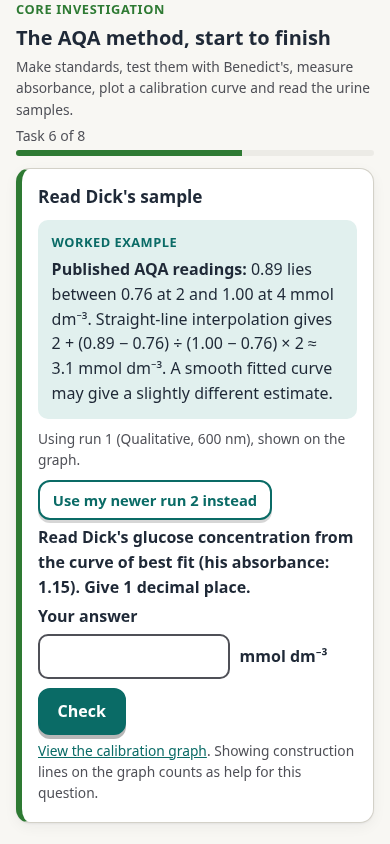
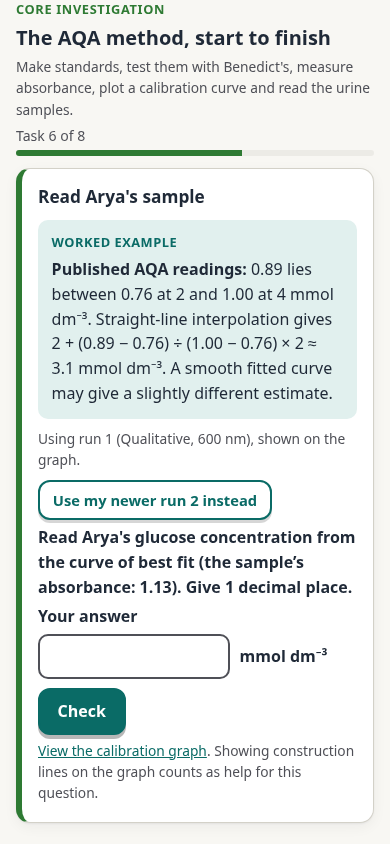
Rename RP11 sample labels

Changed region(s): [[0.0923, 0.6161, 0.9231, 0.7085], [0.2154, 0.2156, 0.5231, 0.2464]]

diff --git a/public/alevel/glucose-calibration/index.html b/public/alevel/glucose-calibration/index.html
@@ -349,7 +349,7 @@ select{font:inherit;color:var(--ink);background:var(--card);border:2px solid var
     <summary class="sumh">These results are simulated: the model's assumptions</summary>
     <ul>
       <li><b>Published and simulated data.</b> The values labelled "Published AQA readings" come from the <a href="https://filestore.aqa.org.uk/resources/biology/AQA-7401-7402-PHBK.PDF">AQA practical handbook</a>. Its text reports 4.7 mmol dm⁻³ for a 0.89 reading, but its own table brackets 0.89 between the 2 and 4 mmol dm⁻³ standards. The worked interpolation uses the table. All lab readings here are simulated; Apply graphs are illustrative data made up for the questions.</li>
-      <li>The method follows the AQA practical handbook: standards of 0 to 10 mmol dm⁻³ made from a 10 mmol dm⁻³ standard, 2 cm³ of each sample and 2 cm³ of Benedict's, 4 minutes in a 90 °C water bath, cooled before reading. Tom, Dick and Harry's samples contain 0, 5 and 8 mmol dm⁻³ glucose.</li>
+      <li>The method follows the AQA practical handbook: standards of 0 to 10 mmol dm⁻³ made from a 10 mmol dm⁻³ standard, 2 cm³ of each sample and 2 cm³ of Benedict's, 4 minutes in a 90 °C water bath, cooled before reading. Katniss, Arya and Carrie's samples contain 0, 5 and 8 mmol dm⁻³ glucose.</li>
       <li>Qualitative Benedict's is read shaken, at 600 nm, against the heated 0 tube. Its readings are fitted to the handbook's sample results (0.76 at 2, 1.39 at 10 mmol dm⁻³). Quantitative Benedict's is read at 680 nm against water; the blue Cu²⁺ left absorbs about 0.80 with no glucose.</li>
       <li>The Cu²⁺ in 2 cm³ of either reagent is assumed to be used up by about 11 mmol dm⁻³ of glucose (illustrative), so higher concentrations give almost the same reading.</li>
       <li>Percentage transmission is relative to the selected blank (100 × 10<sup>−A</sup>); negative absorbance relative to a darker blank can therefore give more than 100% relative transmission.</li>
@@ -414,10 +414,10 @@ let speed="normal";
  handbook's sample results (600 nm). The blue Cu²⁺ left absorbs 0.30 × (1 − fr) at 600 nm and 0.80 × (1 − fr) at 680 nm. */
 const CAP=11,PXC=15,TAU=1.25;
 const BEN={qual:"Qualitative Benedict's",quant:"Quantitative Benedict's"};
-const URN=[["Tom",0],["Dick",5],["Harry",8]];
+const URN=[["Katniss",0],["Arya",5],["Carrie",8]];
 /* sample sets: [label, glucose in the tube (mmol dm⁻³), dilution factor]. Y and Z are for the planning challenge. */
 const SAMP={thd:URN,x:[...URN,["X",15]],x2:[...URN,["X ÷ 2",7.5,2]],yz:[["Y",1.3],["Z",17]],yz4:[["Y",1.3],["Z ÷ 4",4.25,4]],yz2:[["Y",1.3],["Z ÷ 2",8.5,2]]};
-const SAMPN={thd:"Tom, Dick and Harry",x:"Tom, Dick, Harry and patient X",x2:"Tom, Dick, Harry and patient X diluted 1 in 2",yz:"Patients Y and Z",yz4:"Patient Y, and Z diluted 1 in 4",yz2:"Patient Y, and Z diluted 1 in 2"};
+const SAMPN={thd:"Katniss, Arya and Carrie",x:"Katniss, Arya, Carrie and patient X",x2:"Katniss, Arya, Carrie and patient X diluted 1 in 2",yz:"Patients Y and Z",yz4:"Patient Y, and Z diluted 1 in 4",yz2:"Patient Y, and Z diluted 1 in 2"};
 const CSTD={ben:"qual",filt:"600",blank:"zero",dil:"prop",cst:"0,0.5,1,1.5,2,2.5",pip:"ok",heat:"all",tech:"good",urine:"thd"};
 const QSTD={...CSTD,ben:"quant",filt:"680",blank:"water"};
 const NOM={prop:[0,2,4,6,8,10],serial:[0,.625,1.25,2.5,5,10]};
@@ -549,7 +549,8 @@ function tubeSVG(t,i){const x=TX(i)+(t.wig?Math.sin(performance.now()/30)*2.5:0)
   g+=`<path d="M${x-8} ${top} H${x+8} V${yb-r} A8 8 0 0 1 ${x-8} ${yb-r} Z" fill="${rgb(lc)}" opacity=".92"/>`;
   if(ppt>0)g+=`<path d="M${x-8} ${yb-r-Math.max(0,ppt-r)} H${x+8} V${yb-r} A8 8 0 0 1 ${x-8} ${yb-r} Z" fill="${cr.s.ben==="qual"?"#a5432a":"#f4f4f2"}" stroke="${cr.s.ben==="qual"?"none":"#9aa1a9"}" stroke-width=".8"/>`;}
  g+=`<path class="t-glass" d="M${x-9} ${y} V${yb-r} A9 9 0 0 0 ${x+9} ${yb-r} V${y}"/>`;
- g+=`<text class="f-sm t-lab" x="${x}" y="${y-6}" text-anchor="middle"${t.lab.length>4?' style="font-size:10px"':""}>${esc(t.lab)}</text>`;return g;}
+ const labelY=y-6-(t.k==="urn"&&(i-6)%2===0?11:0);
+ g+=`<text class="f-sm t-lab" x="${x}" y="${labelY}" text-anchor="middle"${t.lab.length>4?' style="font-size:10px"':""}>${esc(t.lab)}</text>`;return g;}
 function sySVG(){if(!SY.vis)return"";const x=SY.x,y=SY.y,h=SY.load/4*30;let g=`<rect class="t-barrel" x="${x-4}" y="${y-44}" width="8" height="34" rx="1.5"/>`;
  if(h>0)g+=`<rect x="${x-3}" y="${y-11-h}" width="6" height="${h}" fill="${rgb(SY.col)}"/>`;
  g+=`<line class="f-thin" x1="${x}" y1="${y-10}" x2="${x}" y2="${y}"/><line class="f-thin" x1="${x}" y1="${y-44}" x2="${x}" y2="${y-54+h*.3}"/><line class="f-thin" x1="${x-5}" y1="${y-54+h*.3}" x2="${x+5}" y2="${y-54+h*.3}"/>`;
@@ -560,7 +561,7 @@ function cDraw(){if(!cr)return;const s=cr.s;let g="";
  g+=`<rect class="t-bath" x="8" y="168" width="302" height="128" rx="6"/><rect class="t-bathw" x="10" y="178" width="298" height="116" rx="4"/>`;
  g+=`<text class="f-sm" x="16" y="290">Water bath, 90 °C${cr.status==="heating"&&cr.t>0?` · ${cr.t.toFixed(1)} min`:""}${s.heat==="none"&&cr.status==="heating"?" (not used)":""}</text>`;
  // headers
- g+=`<text class="f-sm" x="99" y="12" text-anchor="middle">Standards, mmol dm⁻³</text><text class="f-sm" x="${206+(cr.tubes.length-7)*15}" y="12" text-anchor="middle">"Urine" samples</text>`;
+ g+=`<text class="f-sm" x="99" y="12" text-anchor="middle">Standards, mmol dm⁻³</text><text class="f-sm" x="${206+(cr.tubes.length-7)*15}" y="2" text-anchor="middle">"Urine" samples</text>`;
  // racks
  g+=`<rect class="t-rack" x="10" y="${104+cr.yS}" width="178" height="7" rx="2"/><rect class="t-rack" x="192" y="${104+cr.yU}" width="${cr.tubes.length>9?118:90}" height="7" rx="2"/>`;
  cr.tubes.forEach((t,i)=>g+=tubeSVG(t,i));
@@ -801,7 +802,7 @@ const PAIRS={
   b:{s:NQ({filt:"600"}),seed:8,line:"curve",txt:"Orange filter, 600 nm: absorbance falls only from about 0.30 to 0.04."}},
  trans:{same:"One set of qualitative Benedict's readings, plotted two ways.",a:{s:N0({}),seed:2,line:"curve",txt:"Absorbance against concentration."},
   b:{s:N0({}),seed:2,line:"curve",Y:"T",txt:"% transmission against concentration: the same data. More light absorbed means less transmitted."}},
- line:{same:"One set of qualitative Benedict's readings. Dick's sample was made at 5.0 mmol dm⁻³.",a:{s:N0({}),seed:4,line:"curve",guides:true,txt:"Curve of best fit, with construction lines for each sample."},
+ line:{same:"One set of qualitative Benedict's readings. Arya's sample was made at 5.0 mmol dm⁻³.",a:{s:N0({}),seed:4,line:"curve",guides:true,txt:"Curve of best fit, with construction lines for each sample."},
   b:{s:N0({}),seed:4,line:"straight",guides:true,txt:"Straight line through the same points, with construction lines. This line fits poorly; the value is for comparison only."}},
  shake:{same:"Qualitative Benedict's, the same tubes.",a:{s:N0({}),seed:6,line:"curve",txt:"Each tube shaken just before sampling: the precipitate is evenly suspended."},
   b:{s:N0({tech:"bad"}),seed:6,line:"curve",txt:"Not shaken: the precipitate settled, more in the tubes sampled later. Readings are lower and scattered."}}};
@@ -841,7 +842,11 @@ function showTaskPanel(tp){curTaskPanel=tp||null;curPair=tp&&tp.pair||null;if(tp
  Runs are saved with progress, so evidence survives reloads and later experiments. */
 let ST={area:"core",sec:null,res:{},adv:{},pick:{},vr:{},wr:{},lock:{},hint:{},txt:{},self:{},seen:{},bind:{},peek:{},rt:{},tried:{},lost:{}},fresh=null;
 const SKEY="kst-rp11-v3";
-try{const d=JSON.parse(localStorage.getItem(SKEY)||"null");if(d&&d.st){ST={...ST,...d.st};if(Array.isArray(d.runs))cRuns=d.runs;cId=Math.max(d.cid||0,...cRuns.map(r=>r.id),0);if(d.ui){CS={...CSTD,...d.ui.settings};speed=d.ui.speed||"normal";gLine=d.ui.line||"none";gY=d.ui.axis||"A";guides=!!d.ui.guides;showRun=cRuns.find(r=>r.id===d.ui.run)||null;}}}catch(e){}
+// Preserve stored experiment evidence when the illustrative sample labels change.
+const OLD_SAMPLE_NAMES={Tom:"Katniss",Dick:"Arya",Harry:"Carrie"};
+function renameSavedRun(r){if(r&&Array.isArray(r.unk))r.unk.forEach(u=>{if(Object.hasOwn(OLD_SAMPLE_NAMES,u.n))u.n=OLD_SAMPLE_NAMES[u.n];});return r;}
+function renameSavedFeedback(v){return typeof v==="string"?v.replace(/\b(?:Tom|Dick|Harry)\b/g,n=>OLD_SAMPLE_NAMES[n]):Array.isArray(v)?v.map(renameSavedFeedback):v;}
+try{const d=JSON.parse(localStorage.getItem(SKEY)||"null");if(d&&d.st){ST={...ST,...d.st};if(Array.isArray(d.runs))cRuns=d.runs.map(renameSavedRun);Object.values(ST.seen).forEach(renameSavedRun);Object.values(ST.refs||{}).forEach(renameSavedRun);for(const k of Object.keys(ST.wr))ST.wr[k]=renameSavedFeedback(ST.wr[k]);cId=Math.max(d.cid||0,...cRuns.map(r=>r.id),0);if(d.ui){CS={...CSTD,...d.ui.settings};speed=d.ui.speed||"normal";gLine=d.ui.line||"none";gY=d.ui.axis||"A";guides=!!d.ui.guides;showRun=cRuns.find(r=>r.id===d.ui.run)||null;}}}catch(e){}
 function save(){try{localStorage.setItem(SKEY,JSON.stringify({st:ST,runs:cRuns,cid:cId,ui:{settings:CS,speed,line:gLine,axis:gY,guides,run:showRun?.id??null}}));}catch(e){$("#save-warning").hidden=false;}}
 function setOK(m,n){return cmatch(cr.s,n);}
 function latestRun(m,n,f){for(let i=cRuns.length-1;i>=0;i--){const r=cRuns[i];if(cmatch(r.s,n)&&(!f||f(r)))return r;}return null;}
@@ -1068,11 +1073,11 @@ const SECTIONS=[
   q:"Under the graph, choose the line for your calibration graph, then press Check.",get:()=>gLine,ok:"curve",
   fb:{none:"Choose a line under the graph first.",straight:"A straight line misses the pattern: your points curve, so the line runs above some points and below others.",dots:"Joining the points copies every small error in the readings. A line of best fit shows the trend."},
   why:"Your points curve, so a smooth curve of best fit shows the trend without following every small error."},
- {id:"c6",type:"num",m:"lab",need:N({}),filt:full,read:true,line:"curve",title:"Read Dick's sample",skill:"Read a concentration from a calibration curve",missing:"You need a run with the AQA set-up.",unit:"mmol dm⁻³",tol:.3,
+ {id:"c6",type:"num",m:"lab",need:N({}),filt:full,read:true,line:"curve",title:"Read Arya's sample",skill:"Read a concentration from a calibration curve",missing:"You need a run with the AQA set-up.",unit:"mmol dm⁻³",tol:.3,
   worked:"<p><b>Published AQA readings:</b> 0.89 lies between 0.76 at 2 and 1.00 at 4 mmol dm⁻³. Straight-line interpolation gives 2 + (0.89 − 0.76) ÷ (1.00 − 0.76) × 2 ≈ 3.1 mmol dm⁻³. A smooth fitted curve may give a slightly different estimate.</p>",
-  q:r=>`Read Dick's glucose concentration from the curve of best fit (his absorbance: ${f2(uA(r,"Dick"))}). Give 1 decimal place.`,
-  ans:r=>rdC(r,"Dick"),errs:r=>[[rdC(r,"Dick","straight","A",true),"That is from a straight line. Use the curve of best fit."],[rdC(r,"Harry"),"That is Harry's sample."],[rdC(r,"Dick","dots"),"That is from joined points. Use the curve."]],
-  help:"Find Dick's absorbance on the y-axis, go across to the curve, then down.",why:r=>`Dick's sample reads ${f1(rdC(r,"Dick"))} mmol dm⁻³ (it was made at 5.0).`},
+  q:r=>`Read Arya's glucose concentration from the curve of best fit (the sample’s absorbance: ${f2(uA(r,"Arya"))}). Give 1 decimal place.`,
+  ans:r=>rdC(r,"Arya"),errs:r=>[[rdC(r,"Arya","straight","A",true),"That is from a straight line. Use the curve of best fit."],[rdC(r,"Carrie"),"That is Carrie's sample."],[rdC(r,"Arya","dots"),"That is from joined points. Use the curve."]],
+  help:"Find Arya's absorbance on the y-axis, go across to the curve, then down.",why:r=>`Arya's sample reads ${f1(rdC(r,"Arya"))} mmol dm⁻³ (it was made at 5.0).`},
  {id:"c7",type:"mcq",title:"The blank",skill:"Explain what zeroing with the heated 0 mmol dm⁻³ tube does",help:"The heated 0 tube has been through everything the other tubes have, except that it has no glucose.",
   v:[{q:"In the AQA method, the colorimeter is zeroed with the heated 0 mmol dm⁻³ tube. What does that do?",opts:[K("It cancels the absorbance of the Benedict's itself"),O("It gives the lamp time to warm up before the readings","Zeroing sets a reference point; it is not a warm-up."),O("It makes the 10 mmol dm⁻³ standard read 1.00","The blank sets zero, not the top of the scale."),O("It cancels any fingerprints left on the cuvettes","Each cuvette's marks differ, so a blank cannot cancel them.")],
     why:"The heated zero-glucose tube contains the Benedict's, treated like every other tube, so zeroing on it cancels the reagent's own absorbance: readings show the change caused by glucose. Distilled water is a different reference (see the Explore card on blanks)."},
@@ -1096,9 +1101,9 @@ const SECTIONS=[
   v:[{q:"How should the cuvettes be prepared for each method?",opts:[K("Qualitative: shake, read at once. Quantitative: settle, take clear liquid."),O("Qualitative: settle, take clear liquid. Quantitative: shake, read at once.","Swapped: the qualitative method measures the suspended precipitate."),O("Both methods: shake each tube well, then read the cuvette at once.","For quantitative Benedict's, precipitate in the cuvette adds to the reading."),O("Both methods: let it settle, then take only the clear liquid.","For qualitative Benedict's, the precipitate is what is being measured.")],
     why:"Qualitative Benedict's is read as an evenly mixed suspension. Quantitative Benedict's measures the blue left in solution, so the precipitate must be kept out."}]},
  {id:"q4",type:"num",m:"lab",need:QSTD,filt:full,read:true,line:"curve",title:"Read a falling curve",skill:"Read a concentration from a falling calibration curve",missing:"You need a run with quantitative Benedict's.",unit:"mmol dm⁻³",tol:.35,
-  q:r=>`From the curve of best fit, read Dick's concentration (absorbance ${f2(uA(r,"Dick"))}). 1 decimal place.`,
-  ans:r=>rdC(r,"Dick"),errs:r=>[[rdC(r,"Harry"),"That is Harry's sample."],[rdC(r,"Dick")!=null?10-rdC(r,"Dick"):null,"The curve falls here: lower absorbance means more glucose."]],
-  help:"Same method: across to the curve, then down. This curve slopes the other way.",why:r=>`Dick reads ${f1(rdC(r,"Dick"))} mmol dm⁻³ with quantitative Benedict's.`},
+  q:r=>`From the curve of best fit, read Arya's concentration (absorbance ${f2(uA(r,"Arya"))}). 1 decimal place.`,
+  ans:r=>rdC(r,"Arya"),errs:r=>[[rdC(r,"Carrie"),"That is Carrie's sample."],[rdC(r,"Arya")!=null?10-rdC(r,"Arya"):null,"The curve falls here: lower absorbance means more glucose."]],
+  help:"Same method: across to the curve, then down. This curve slopes the other way.",why:r=>`Arya reads ${f1(rdC(r,"Arya"))} mmol dm⁻³ with quantitative Benedict's.`},
  {id:"q5",type:"mcq",title:"Limitations",skill:"Identify a limitation of each Benedict's method",
   v:[{q:"Which limitation applies to the qualitative method but not the quantitative one?",opts:[K("Readings change as the suspended precipitate settles"),O("It needs a water bath kept at 90 °C for every tube","Both methods are heated in the same way."),O("It needs a full set of glucose standards to be made","Both methods need a calibration curve."),O("It only detects reducing sugars, such as glucose here","Both methods depend on reducing sugars.")],
     why:"The qualitative method reads a suspension, which settles over time; the quantitative method reads the clear liquid."},
@@ -1112,7 +1117,7 @@ const SECTIONS=[
    {q:"Fresh question: a 1 in 10 serial dilution starts at 10 mmol dm⁻³. Concentration after 2 steps?",help:"Each 1 in 10 step divides the concentration by 10.",ans:()=>.1,errs:()=>[[1,"That is after 1 step."],[5,"Each step divides by 10."]],why:()=>"10 → 1 → 0.1 mmol dm⁻³."}],
   help:"Each 1 in 2 step halves the concentration."},
  {id:"s2",type:"run",m:"lab",need:N({dil:"serial"}),title:"Run serial standards",text:"Run the method with serial dilutions, then look at where the points sit on the graph.",
-  res:r=>`Your standards: 0, 0.63, 1.25, 2.5, 5 and 10 mmol dm⁻³. Four of the six are below 3, so the low end of the curve is well defined but there are few points near Dick (5) and Harry (8).`},
+  res:r=>`Your standards: 0, 0.63, 1.25, 2.5, 5 and 10 mmol dm⁻³. Four of the six are below 3, so the low end of the curve is well defined but there are few points near Arya (5) and Carrie (8).`},
  {id:"s3",type:"mcq",panel:{pair:"dil"},title:"One mistake, two methods",skill:"Explain how an error spreads in a serial dilution",help:"In a serial dilution, where does each tube's glucose come from?",
   v:[{q:"Both sets had one volume wrong. Why does B have several low points but A only one?",opts:[K("Each serial tube is made from the one before it"),O("Serial dilutions were heated for less time","Both sets were heated the same way."),O("Serial standards use a weaker glucose stock","Both start from the same 10 mmol dm⁻³ stock."),O("Serial dilutions always contain more mistakes overall","Each set had exactly one mistake.")],
     why:"In a serial dilution an error in one tube is carried into every tube made from it. A proportional error affects only its own tube."}]},
@@ -1173,7 +1178,7 @@ const SECTIONS=[
   q:"The urine tubes go into the bath 2 minutes after the standards. Predict the urine concentrations read from the curve.",
   out:[K("Too low"),O("Too high","Less time in the bath means less reaction."),O("Unchanged","The standards had 4 minutes; the urine only 2.")],
   why:[K("The samples react for less time than the standards did"),O("The urine tubes cool the bath and slow the standards","The bath stays at 90 °C."),O("Late tubes collect extra glucose from the bath","Nothing enters the tubes from the bath.")],
-  res:r=>`Dick (made at 5.0 mmol dm⁻³) has absorbance ${f2(uA(r,"Dick"))}; a matched four-minute run gives about ${f2(uA(BASE,"Dick"))}. The mismatch makes the concentration estimate unreliable.`,
+  res:r=>`Arya (made at 5.0 mmol dm⁻³) has absorbance ${f2(uA(r,"Arya"))}; a matched four-minute run gives about ${f2(uA(BASE,"Arya"))}. The mismatch makes the concentration estimate unreliable.`,
   because:"Less Cu²⁺ is reduced in 2 minutes, so the samples' absorbance is lower than standards of the same concentration. Heat everything together for the same time."}]},
 
 {id:"trans",area:"explore",name:"Absorbance or % transmission",card:"Plot the same readings as % transmission, and read a sample from that graph.",start:N({}),graph:{Y:"T",line:"curve"},model:"lab",help:true,intro:"A colorimeter can show absorbance or % transmission. They describe the same light, in opposite directions.",tasks:[
@@ -1182,9 +1187,9 @@ const SECTIONS=[
     why:"Transmission is the light that gets through the sample; absorbance rises as transmission falls."}],
   extra:'<p class="note"><span class="badge">Beyond the spec</span> Absorbance = log₁₀(100 ÷ % transmission).</p>'},
  {id:"t2",type:"num",m:"lab",need:N({}),filt:full,read:true,line:"curve",gy:"T",title:"Read from % transmission",skill:"Read a concentration from a % transmission calibration curve",missing:"You need a run with the AQA set-up.",unit:"mmol dm⁻³",tol:.35,
-  q:r=>`The graph now shows % transmission. Read Dick's concentration from the curve of best fit (his transmission: ${gT(uA(r,"Dick")).toFixed(0)}%). 1 decimal place.`,
-  ans:r=>rdC(r,"Dick","curve","T"),errs:r=>[[rdC(r,"Harry","curve","T"),"That is Harry's sample."]],
-  help:"Find Dick's % transmission on the y-axis, go across to the curve, then down.",why:r=>`About ${f1(rdC(r,"Dick","curve","T"))} mmol dm⁻³, the same as from absorbance, within reading error.`},
+  q:r=>`The graph now shows % transmission. Read Arya's concentration from the curve of best fit (the sample’s transmission: ${gT(uA(r,"Arya")).toFixed(0)}%). 1 decimal place.`,
+  ans:r=>rdC(r,"Arya","curve","T"),errs:r=>[[rdC(r,"Carrie","curve","T"),"That is Carrie's sample."]],
+  help:"Find Arya's % transmission on the y-axis, go across to the curve, then down.",why:r=>`About ${f1(rdC(r,"Arya","curve","T"))} mmol dm⁻³, the same as from absorbance, within reading error.`},
  {id:"t3",type:"mcq",title:"Which has more glucose?",skill:"Compare samples using % transmission",
   v:[{q:"Qualitative Benedict's: sample P has a lower % transmission than sample Q. Which contains more glucose?",opts:[K("P: it lets less light through"),O("Q: it lets more light through","More glucose means more precipitate, which blocks light."),O("Neither: transmission ignores glucose","Transmission depends on the precipitate glucose made."),O("You can't tell without absorbance","% transmission carries the same information.")],
     why:"More glucose makes more precipitate, so less light is transmitted."},
@@ -1193,10 +1198,10 @@ const SECTIONS=[
 
 {id:"line",area:"explore",name:"Lines of best fit",card:"A curve of best fit, a straight line and joined points, on the same data.",start:N({}),graph:{line:"straight"},model:"lab",help:true,intro:"The line you draw decides the concentrations you read.",tasks:[
  {id:"l1",type:"num",panel:{pair:"line"},title:"Read the curve",skill:"Read the same data from different lines",unit:"mmol dm⁻³",tol:.3,
-  v:[{q:"Read Dick's concentration from the curve of best fit in A. 1 decimal place.",ans:()=>rdC(PL,"Dick"),errs:()=>[[rdC(PL,"Dick","straight","A",true),"That is from the straight line in B."]],why:()=>`About ${f1(rdC(PL,"Dick"))} mmol dm⁻³ from the curve; the straight line gives ${f1(rdC(PL,"Dick","straight","A",true))}.`}],
-  help:"Follow A's construction line for Dick down to the concentration axis. The displayed guide counts as support."},
+  v:[{q:"Read Arya's concentration from the curve of best fit in A. 1 decimal place.",ans:()=>rdC(PL,"Arya"),errs:()=>[[rdC(PL,"Arya","straight","A",true),"That is from the straight line in B."]],why:()=>`About ${f1(rdC(PL,"Arya"))} mmol dm⁻³ from the curve; the straight line gives ${f1(rdC(PL,"Arya","straight","A",true))}.`}],
+  help:"Follow A's construction line for Arya down to the concentration axis. The displayed guide counts as support."},
  {id:"l2",type:"mcq",panel:{pair:"line"},title:"Why they differ",skill:"Explain why a straight line is a poor fit to curved data",
-  v:[{q:"Why does B give a different reading for Dick?",opts:[K("The straight line misses the curved pattern of points"),O("Dick's sample was measured again for graph B","Same data, different line."),O("A straight line is always the more accurate choice","Only when the points lie on a straight line."),O("B's points were plotted on a different scale","Both use the same axes.")],
+  v:[{q:"Why does B give a different reading for Arya?",opts:[K("The straight line misses the curved pattern of points"),O("Arya's sample was measured again for graph B","Same data, different line."),O("A straight line is always the more accurate choice","Only when the points lie on a straight line."),O("B's points were plotted on a different scale","Both use the same axes.")],
     why:"The straight line runs above some points and below others, so readings from it are too high in some places and too low in others."}]},
  {id:"l3",type:"mcq",title:"Joining the points",skill:"Explain why points are not joined dot to dot",
   v:[{q:"Why not join the points with straight lines from point to point?",opts:[K("It follows every small error in each reading"),O("It makes the concentrations too hard to read","Joined points are easy to read; that is not the problem."),O("It always gives values that are too low","It can be too high or too low."),O("It is only allowed for straight-line data","A fitted line can show a trend without copying every point. Local interpolation may be useful when justified.")],

diff --git a/docs/required-practicals-glucose.md b/docs/required-practicals-glucose.md
@@ -6,7 +6,7 @@ The [glucose calibration simulation](https://narajos.com/alevel/glucose-calibrat
 
 - [AQA Biology 7402 practical assessment](https://www.aqa.org.uk/subjects/biology/a-level/biology-7402/specification/practical-assessment) specifies a glucose dilution series and colorimetric calibration of an unknown artificial urine sample, while allowing teachers to vary the approach. The [AQA practical handbook](https://filestore.aqa.org.uk/resources/biology/AQA-7401-7402-PHBK.PDF), RP11 student sheet and teacher notes, and [apparatus guide](https://filestore.aqa.org.uk/resources/biology/AQA-7401-7402-P11.PDF) describe 2 cm³ samples, equal reagent volume, four minutes at 90 °C, cooling, a heated zero standard as blank, and 600 nm qualitative and 680 nm quantitative examples. The handbook notes that quantitative Benedict’s forms white precipitate that should be excluded from the cuvette. The existing Narajos quantitative activity instead uses water as its optical reference; both references are explained and the same blank must be used for standards and samples.
 - The qualitative model reads a consistently mixed coloured suspension. The quantitative model reads remaining blue copper(II) in the clear liquid, so its trend is opposite. The simulation assumes glucose is the only reducing sugar in its artificial samples. Benedict’s responds to other reducing sugars; one urine result is not a diagnosis.
-- **Published-example discrepancy:** the handbook table lists absorbance 0.76 at 2 mmol dm⁻³ and 1.00 at 4 mmol dm⁻³, with Dick’s reading 0.89; its text also reports 4.70 mmol dm⁻³ for Dick. A monotonic calibration through those tabulated standards places 0.89 between 2 and 4, not 4.70. The revised worked example uses those published readings and gives about 3.1 by explicitly stated straight-line interpolation between them. A smooth curve can give a different estimate. Other lab readings and all Apply datasets are simulated or invented, as labelled.
+- **Published-example discrepancy:** the handbook table lists absorbance 0.76 at 2 mmol dm⁻³ and 1.00 at 4 mmol dm⁻³, with a sample reading of 0.89; its text also reports 4.70 mmol dm⁻³ for that sample. A monotonic calibration through those tabulated standards places 0.89 between 2 and 4, not 4.70. The revised worked example uses those published readings and gives about 3.1 by explicitly stated straight-line interpolation between them. A smooth curve can give a different estimate. Other lab readings and all Apply datasets are simulated or invented, as labelled.
 - The prototype’s dilution calculation tracks glucose amount and actual liquid volume. A proportional pipetting error affects one tube; a spill during serial transfer changes that tube’s volume and concentration, and propagates to dependent standards. The optional custom range requires six increasing values from 0 to 10, beginning at 0, in 0.05 mmol dm⁻³ increments; with the model's 2 cm³ final sample this corresponds to 0.01 cm³ increments in stock volume. A real laboratory would choose apparatus and concentrations appropriate to its precision.
 - A fitted calibration is shown only over the standard concentrations. Concentration estimates are withheld outside the observed reading range, for a visibly poor fit, and when the simulation knows that pipetting, heating or handling was wrong. The illustrative fit guard compares the largest residual with the greater of 0.045 absorbance units (or 4 percentage points) and 8% of the observed span; it is a teaching safeguard, not a statistical validation of a calibration. The comparison of an intentionally poor straight line is retained as a labelled teaching example. Close spacing can help define a local calibration but does not automatically improve accuracy or remove systematic error. Flat regions amplify reading uncertainty; repeatability, fit, reagent saturation and systematic errors are distinct issues.
 - Percentage transmission is relative to the selected blank: `100 × 10^(−A)`. Negative absorbance relative to a more absorbing blank can give a relative transmission greater than 100%. The transmission curve is the transformed absorbance fit, so corresponding readings agree. The reaction-particle view is schematic: particle counts and collisions do not represent real stoichiometric proportions or reaction kinetics.
@@ -15,7 +15,7 @@ The [glucose calibration simulation](https://narajos.com/alevel/glucose-calibrat
 
 The model assumes an illustrative reagent capacity equivalent to 2 cm³ of an 11 mmol dm⁻³ glucose solution. The reacted fraction uses `1 − exp(−t/1.25)` at 90 °C, capped by the modelled glucose amount and reagent capacity. The qualitative optical response is an empirical saturating function chosen to resemble the handbook example, not a prediction of actual particle scattering or proof that a real curve flattens solely because reagent is exhausted. Quantitative absorbance models blue copper(II) remaining; filter sensitivity, precipitate scattering, fingerprint effects and random variation are illustrative. A readout is rounded to two decimal places. These assumptions should not be treated as measured reagent chemistry, a clinical assay or a replacement for practical work.
 
-Local storage keeps settings, drafts, progress and completed run snapshots on this browser and device, separately from course progress. Run-bound numerical and control tasks retain their evidence; an explicitly selected newer run clears the old response and keeps previous support or mistakes in its achievement status. Bound evidence is retained when unneeded runs are trimmed. An interrupted animation restarts with its selected settings and no invented result. Prediction corrections must be checked; revealed construction lines count as support. Written work is explicitly self-assessed and can be revised. No automatic keyword marking is used.
+Local storage keeps settings, drafts, progress and completed run snapshots on this browser and device, separately from course progress. Saved run labels and generated feedback from the earlier sample names are migrated to Katniss, Arya and Carrie without changing readings, run IDs or student-written drafts. Run-bound numerical and control tasks retain their evidence; an explicitly selected newer run clears the old response and keeps previous support or mistakes in its achievement status. Bound evidence is retained when unneeded runs are trimmed. An interrupted animation restarts with its selected settings and no invented result. Prediction corrections must be checked; revealed construction lines count as support. Written work is explicitly self-assessed and can be revised. No automatic keyword marking is used.
 
 ## Verification
 
